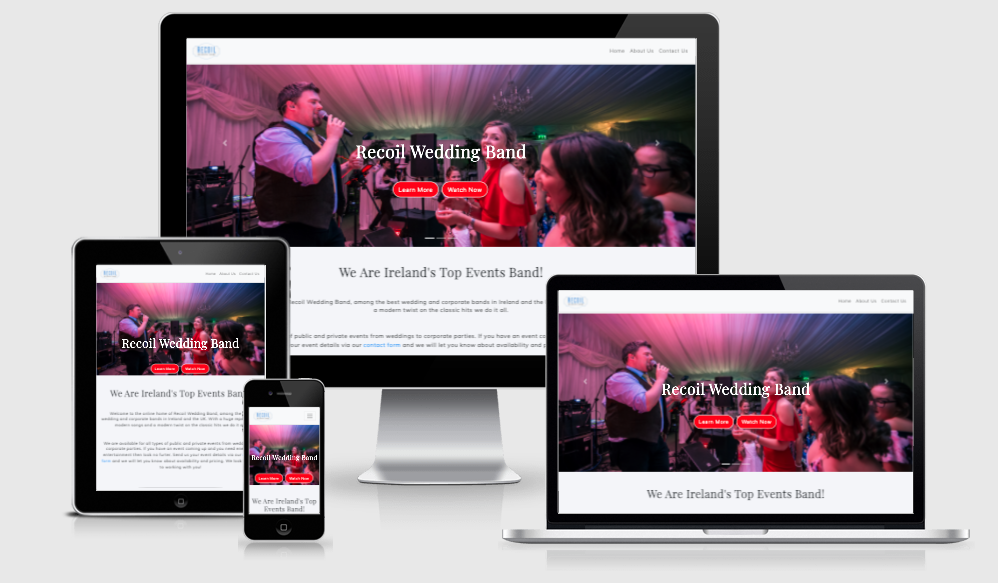
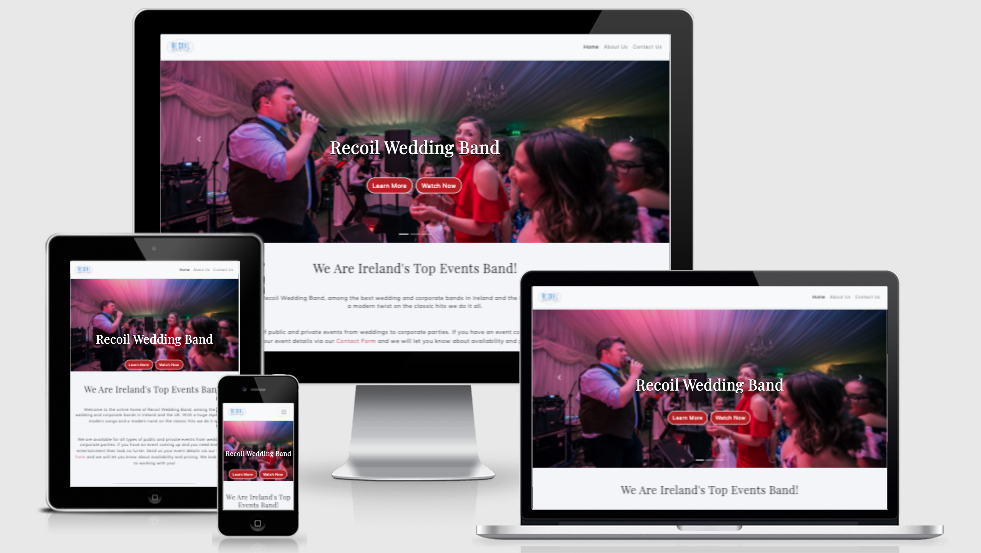
Am I responsive screenshot updated

diff --git a/README.md b/README.md
@@ -330,8 +330,10 @@ I also increased my best practises score by adding rel="noreferrer" to all exter
 #### Color contrast:
 1. I tested my webiste in [WAVE Web](https://wave.webaim.org/)
 It did show up some errors on color contrasting on my h1 titles overlayed on images and also my call to action buttons.
-I tried to change colors however I really wanted my site to have clean white headings over images.
+I changed my CTA background colors to achieve a pass, however I really wanted my site to have clean white headings over images.
 In order to help them stand out I used linear grading to darken images in css while also adding a minimal text shadow to headings to help them stand out more.
+
+![W3C HTML test](assets/images/a11y.png)
 
 # DEPLOYMENT AND TESTING 
 
